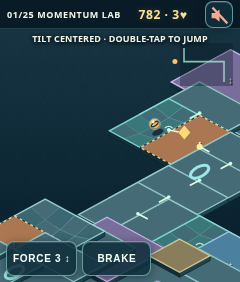
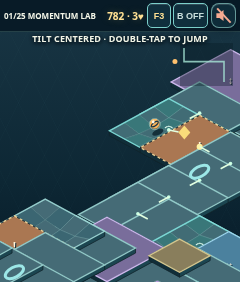
Move force and toggle brake into scoreboard with touch fallback

Changed region(s): [[0.0, 0.0, 1.0, 0.1135], [0.0, 0.8511, 0.6417, 0.9929]]

diff --git a/app.js b/app.js
@@ -2,7 +2,7 @@ import {tiltControl,gesture,isTap,GESTURE} from './controls.js';
 import {TUNE,newGame,step,clamp,opponentPosition,surfaceAt,tileHeight,tilePosition,surfaceHeight} from './physics.js';
 import {toggleAudio,play,roll,audioState} from './audio.js';
 import {createCourse,CATALOG,DIFFICULTIES} from './courses.js';
-const $=id=>document.getElementById(id),canvas=$('game'),ctx=canvas.getContext('2d');let selected=1,difficulty='standard',COURSE=createCourse(selected,difficulty),state=newGame(COURSE),started=false,paused=false,tiltSeen=false,tiltInput={x:0,z:0},tiltCenter=null,force=3,last=performance.now(),camera={x:0,z:7},keys=new Set(),notice='',brakePressed=false,jumpQueued=false,orientationTimer=null,motionStatus='idle',lastTap=null,gestureStart=null,muted=true;
+const $=id=>document.getElementById(id),canvas=$('game'),ctx=canvas.getContext('2d');let selected=1,difficulty='standard',COURSE=createCourse(selected,difficulty),state=newGame(COURSE),started=false,paused=false,tiltSeen=false,tiltInput={x:0,z:0},tiltCenter=null,force=3,last=performance.now(),camera={x:0,z:7},notice='',brakeEnabled=false,jumpQueued=false,orientationTimer=null,motionStatus='idle',lastTap=null,gestureStart=null,muted=true;
 const say=t=>{notice=t;$('message').textContent=t};
 const scale=8.4;
 function project(x,z,h=0){const X=x-camera.x,Z=z-camera.z;return {x:120+(X-Z)*scale*.70,y:147+(X+Z)*scale*.38-h*scale*.9}}
@@ -49,7 +49,7 @@ function drawMap(){
  const a=point(state);ctx.fillStyle='#ffc16e';ctx.beginPath();ctx.arc(a.x,a.y,2.5,0,7);ctx.fill();
 }
 
-function sync(){ $('time').textContent=state.remaining.toFixed(0)+' · '+Math.max(0,state.lives)+'♥';$('label').textContent=`${String(selected).padStart(2,'0')}/25 ${COURSE.name.toUpperCase()}`;$('time').style.color=state.remaining<15?'#ff7c77':'#ffe093';$('speed').textContent=`FORCE ${force} ↕`;
+function sync(){ $('time').textContent=state.remaining.toFixed(0)+' · '+Math.max(0,state.lives)+'♥';$('label').textContent=`${String(selected).padStart(2,'0')}/25 ${COURSE.name.toUpperCase()}`;$('time').style.color=state.remaining<15?'#ff7c77':'#ffe093';$('speed').textContent=`F${force}`;$('speed').setAttribute('aria-label',`Force ${force} of 5, tap or swipe to adjust`);$('brake-state').textContent=brakeEnabled?'B ON':'B OFF';$('brake-state').setAttribute('aria-pressed',String(brakeEnabled));$('brake-state').setAttribute('aria-label',`Brake ${brakeEnabled?'on':'off'}, tap to toggle`);
   if(state.status==='finished'||state.status==='timeout'||state.status==='out'){$('result').hidden=false;$('next').hidden=state.status!=='finished'||selected===25;$('result-title').textContent=state.status==='finished'?'COURSE COMPLETE':state.status==='out'?'OUT OF LIVES':'TIME UP';$('result-detail').textContent=state.status==='finished'?`${COURSE.name} · ${state.remaining.toFixed(0)}s left · ${state.lives} lives · ${state.falls} falls.`:`${COURSE.name} · ${state.falls} falls · Retry this course.`}
   else if(state.fallTime>0)say(`FALL · ${Math.max(0,state.lives)} LIVES · RESPAWN −4s`);else if(state.checkpoint&&notice==='')say('CHECKPOINT');}
 async function prepareTilt(){tiltSeen=false;tiltCenter=null;tiltInput={x:0,z:0};motionStatus='waiting';say('HOLD YOUR PLAYING POSTURE · CALIBRATING TILT');clearTimeout(orientationTimer);
@@ -57,27 +57,28 @@ async function prepareTilt(){tiltSeen=false;tiltCenter=null;tiltInput={x:0,z:0};
     orientationTimer=setTimeout(()=>{if(!tiltSeen){motionStatus='unavailable';say('NO TILT DATA · CHECK MOTION ACCESS, THEN REPLAY')}},2200);
   }catch(e){motionStatus='unavailable';say(`TILT UNAVAILABLE (${e.message}) · CHECK MOTION ACCESS, THEN REPLAY`)}
 }
-function start(){COURSE=createCourse(selected,difficulty);state=newGame(COURSE);camera={x:0,z:7};started=true;paused=false;jumpQueued=false;lastTap=null;$('overlay').hidden=true;$('help').hidden=true;$('result').hidden=true;prepareTilt();sync()}
+function start(){COURSE=createCourse(selected,difficulty);state=newGame(COURSE);camera={x:0,z:7};started=true;paused=false;brakeEnabled=false;jumpQueued=false;lastTap=null;$('overlay').hidden=true;$('help').hidden=true;$('result').hidden=true;prepareTilt();sync()}
 $('start').onclick=start;$('restart').onclick=start;$('replay').onclick=start;$('next').onclick=()=>{selected=Math.min(25,selected+1);$('course').value=String(selected);start()};$('course').onchange=e=>{selected=Number(e.target.value);COURSE=createCourse(selected,difficulty);state=newGame(COURSE);sync()};$('difficulty').onchange=e=>{difficulty=e.target.value;COURSE=createCourse(selected,difficulty);state=newGame(COURSE);sync()};
 function openDrawer(){if(!started||!$('result').hidden)return;paused=true;lastTap=null;$('help').hidden=false}
 function closeDrawer(){paused=false;$('help').hidden=true;lastTap=null}
 $('resume').onclick=closeDrawer;
 const adjust=d=>{force=clamp(force+d,1,5);sync();say(`FORCE ${force} · ${force<3?'PRECISION':'MOMENTUM'}`)};
-addEventListener('wheel',e=>{if(!started||paused||!$('result').hidden)return;e.preventDefault();adjust(e.deltaY>0?-1:1)},{passive:false});let touchY=null;$('speed').addEventListener('pointerdown',e=>{touchY=e.clientY;$('speed').setPointerCapture(e.pointerId)});$('speed').addEventListener('pointerup',e=>{if(touchY!==null)adjust(touchY-e.clientY>8?1:touchY-e.clientY< -8?-1:1);touchY=null});
+function toggleBrake(){if(!started||paused||state.status!=='playing')return;brakeEnabled=!brakeEnabled;sync();say(brakeEnabled?'BRAKE ON':'BRAKE OFF')}
+$('brake-state').addEventListener('click',toggleBrake);
+addEventListener('wheel',e=>{if(!started||paused||!$('result').hidden)return;e.preventDefault();adjust(e.deltaY>0?-1:e.deltaY<0?1:0)},{passive:false});let touchY=null;$('speed').addEventListener('pointerdown',e=>{touchY=e.clientY;$('speed').setPointerCapture(e.pointerId)});$('speed').addEventListener('pointerup',e=>{if(touchY!==null)adjust(touchY-e.clientY>8?1:touchY-e.clientY< -8?-1:1);touchY=null});
 addEventListener('deviceorientation',e=>{if(!started||!Number.isFinite(e.gamma)||!Number.isFinite(e.beta))return;tiltSeen=true;motionStatus='ready';clearTimeout(orientationTimer);if(!tiltCenter){tiltCenter={gamma:e.gamma,beta:e.beta};say('TILT CENTERED · DOUBLE-TAP TO JUMP')}tiltInput=tiltControl(e.gamma,e.beta,tiltCenter)});
 $('shell').addEventListener('pointerdown',e=>{if(e.pointerType==='mouse'&&e.button!==0)return;gestureStart={x:e.clientX,y:e.clientY,id:e.pointerId,target:e.target,time:performance.now()}});
 $('shell').addEventListener('pointerup',e=>{if(!gestureStart||gestureStart.id!==e.pointerId)return;const startPoint=gestureStart;gestureStart=null;const end={x:e.clientX,y:e.clientY},action=gesture(startPoint,end,!$('help').hidden);if(action==='open'){openDrawer();return}if(action==='close'){closeDrawer();return}
   if(!started||paused||state.status!=='playing'||!isTap(startPoint,end)||startPoint.x>=240-GESTURE.edge||startPoint.target!==canvas){lastTap=null;return}
   const now=performance.now();if(lastTap&&now-lastTap.time<=GESTURE.doubleMs&&Math.hypot(lastTap.x-end.x,lastTap.y-end.y)<28){jumpQueued=true;lastTap=null;say('JUMP')}else lastTap={...end,time:now};
 });$('shell').addEventListener('pointercancel',()=>{gestureStart=null;lastTap=null});
-addEventListener('keydown',e=>{if(['ArrowUp','ArrowDown','ArrowLeft','ArrowRight',' '].includes(e.key))e.preventDefault();keys.add(e.key.toLowerCase())});addEventListener('keyup',e=>keys.delete(e.key.toLowerCase()));
+addEventListener('keydown',e=>{if(['ArrowUp','ArrowDown','ArrowLeft','ArrowRight',' '].includes(e.key))e.preventDefault();if(e.repeat)return;if(e.key.toLowerCase()==='b')toggleBrake()});
 function frame(now){const dt=Math.min((now-last)/1000,1/30);last=now;if(started&&!paused&&state.status==='playing'&&motionStatus==='ready'){
-  const brake=keys.has(' ')||keys.has('b')||brakePressed;
+  const brake=brakeEnabled;
   state=step(state,{x:tiltInput.x*force/3,z:tiltInput.z*force/3,brake,jump:jumpQueued},dt,COURSE);for(const event of state.events){play(({fall:'collapse',impact:'impact-metal',respawn:'platform',shield:'impact-metal',fail:'bomb'})[event]||event,event==='impact'?.22:.48)}const material=surfaceAt(state.x,state.z,COURSE,state.elapsed,state.collapsed)?.kind;roll(Math.hypot(state.vx,state.vz),material,now/1000);jumpQueued=false;camera.x+=(state.x-camera.x)*Math.min(1,dt*3);camera.z+=(state.z+7-camera.z)*Math.min(1,dt*3);sync()
 }draw();requestAnimationFrame(frame)}
-const brakeButton=$('brake');brakeButton.addEventListener('pointerdown',e=>{e.preventDefault();brakeButton.setPointerCapture(e.pointerId);brakePressed=true});for(const ev of ['pointerup','pointercancel','lostpointercapture'])brakeButton.addEventListener(ev,()=>brakePressed=false);
 $('audio').onclick=async()=>{await toggleAudio();muted=audioState().muted;const b=$('audio');b.setAttribute('aria-pressed',String(!muted));b.setAttribute('aria-label',muted?'Unmute audio':'Mute audio');b.title=muted?'Unmute audio':'Mute audio'};
 requestAnimationFrame(frame);
-window.__lab=()=>({course:selected,difficulty,configuration:{sections:COURSE.sections,branches:COURSE.branches,hazards:COURSE.hazards.length,features:COURSE.features.length,opponents:COURSE.opponents.length},state:{...state},tiltSeen,tiltCenter,tiltInput:{...tiltInput},motionStatus,force,started,paused,jumpQueued,muted});
+window.__lab=()=>({course:selected,difficulty,configuration:{sections:COURSE.sections,branches:COURSE.branches,hazards:COURSE.hazards.length,features:COURSE.features.length,opponents:COURSE.opponents.length},state:{...state},tiltSeen,tiltCenter,tiltInput:{...tiltInput},motionStatus,force,brakeEnabled,started,paused,jumpQueued,muted});
 // Local-only deterministic finish-zone browser fixture; never available on published Pages.
 if(location.hostname==='127.0.0.1'||location.hostname==='localhost')window.__labSetState=patch=>{state={...state,...patch};sync()};

diff --git a/index.html b/index.html
@@ -1,1 +1,1 @@
-<!doctype html><html lang="en"><head><meta charset="utf-8"><meta name="viewport" content="width=device-width,initial-scale=1,maximum-scale=1,viewport-fit=cover"><meta name="theme-color" content="#0c2531"><title>Marble Madness 3D · Momentum Lab</title><link rel="stylesheet" href="styles.css?v=8"></head><body><main id="shell"><canvas id="game" width="240" height="282" aria-label="Momentum Lab marble course"></canvas><div id="hud"><span id="label">MOMENTUM LAB</span><span id="time">90.0</span><button id="audio" aria-label="Unmute audio" aria-pressed="false" title="Unmute audio"><svg viewBox="0 0 24 24" aria-hidden="true"><path d="M3 9v6h4l5 4V5L7 9H3z" fill="currentColor"/><path class="waves" d="M15 8q4 4 0 8m2-11q7 7 0 14" fill="none" stroke="currentColor" stroke-width="2"/><path class="slash" d="M4 3 21 21" fill="none" stroke="currentColor" stroke-width="2.5"/></svg></button></div><div id="message" role="status"></div><div id="controls"><button id="speed" aria-label="Force setting, tap or swipe">FORCE 3 ↕</button><button id="brake" aria-label="Brake, hold to stop">BRAKE</button></div><section id="overlay"><div class="emblem">◉</div><h1>MARBLE<br>MADNESS <b>3D</b></h1><p>25 COURSES · PURE MOMENTUM</p><div class="pick"><label>COURSE<select id="course"><option value="1">01</option><option value="2">02</option><option value="3">03</option><option value="4">04</option><option value="5">05</option><option value="6">06</option><option value="7">07</option><option value="8">08</option><option value="9">09</option><option value="10">10</option><option value="11">11</option><option value="12">12</option><option value="13">13</option><option value="14">14</option><option value="15">15</option><option value="16">16</option><option value="17">17</option><option value="18">18</option><option value="19">19</option><option value="20">20</option><option value="21">21</option><option value="22">22</option><option value="23">23</option><option value="24">24</option><option value="25">25</option></select></label><label>LEVEL<select id="difficulty"><option value="beginner">BEGINNER</option><option value="standard" selected>STANDARD</option><option value="pro">PRO</option></select></label></div><button id="start">ROLL THE COURSE</button><small>Tilt to steer · double-tap to jump<br>Hold BRAKE · wheel or FORCE to adjust<br>Swipe in from right edge for menu</small></section><section id="help" hidden><h2>PAUSED</h2><p>Tilt steers relative to the posture held at start. Double-tap the course to jump; hold BRAKE to stop. Wheel adjusts FORCE; tap/swipe FORCE if wheel is unavailable. Follow the small translucent route trace and floor arrows: only painted platforms support the marble; dark space is a gap. Blue ↔ platforms move, purple ↕ elevators rise, and orange ! platforms warn red before collapsing. Raised elevator edges may need a jump or a lower phase. Reach the luminous goal. Falls cost a life and return to the latest checkpoint with a 4-second penalty. Bombs cost a life; red posts and purple rivals bounce you. Collect diamonds for time, shield, or boost. Swipe right to close this drawer.</p><button id="resume">RESUME</button><button id="restart">RESTART</button></section><section id="result" hidden><h2 id="result-title"></h2><p id="result-detail"></p><button id="replay">REPLAY COURSE</button><button id="next" hidden>NEXT COURSE →</button></section></main><script type="module" src="app.js?v=8"></script></body></html>
+<!doctype html><html lang="en"><head><meta charset="utf-8"><meta name="viewport" content="width=device-width,initial-scale=1,maximum-scale=1,viewport-fit=cover"><meta name="theme-color" content="#0c2531"><title>Marble Madness 3D · Momentum Lab</title><link rel="stylesheet" href="styles.css?v=9"></head><body><main id="shell"><canvas id="game" width="240" height="282" aria-label="Momentum Lab marble course"></canvas><div id="hud"><span id="score"><span id="label">MOMENTUM LAB</span><span id="time">90.0</span></span><span id="instruments"><button id="speed" aria-label="Force 3 of 5, tap or swipe to adjust" title="Wheel or tap/swipe to adjust force">F3</button><button id="brake-state" aria-label="Brake off, tap to toggle" aria-pressed="false" title="Tap to toggle brake">B OFF</button></span><button id="audio" aria-label="Unmute audio" aria-pressed="false" title="Unmute audio"><svg viewBox="0 0 24 24" aria-hidden="true"><path d="M3 9v6h4l5 4V5L7 9H3z" fill="currentColor"/><path class="waves" d="M15 8q4 4 0 8m2-11q7 7 0 14" fill="none" stroke="currentColor" stroke-width="2"/><path class="slash" d="M4 3 21 21" fill="none" stroke="currentColor" stroke-width="2.5"/></svg></button></div><div id="message" role="status"></div><section id="overlay"><div class="emblem">◉</div><h1>MARBLE<br>MADNESS <b>3D</b></h1><p>25 COURSES · PURE MOMENTUM</p><div class="pick"><label>COURSE<select id="course"><option value="1">01</option><option value="2">02</option><option value="3">03</option><option value="4">04</option><option value="5">05</option><option value="6">06</option><option value="7">07</option><option value="8">08</option><option value="9">09</option><option value="10">10</option><option value="11">11</option><option value="12">12</option><option value="13">13</option><option value="14">14</option><option value="15">15</option><option value="16">16</option><option value="17">17</option><option value="18">18</option><option value="19">19</option><option value="20">20</option><option value="21">21</option><option value="22">22</option><option value="23">23</option><option value="24">24</option><option value="25">25</option></select></label><label>LEVEL<select id="difficulty"><option value="beginner">BEGINNER</option><option value="standard" selected>STANDARD</option><option value="pro">PRO</option></select></label></div><button id="start">ROLL THE COURSE</button><small>Tilt to steer · double-tap to jump<br>Tap B to toggle brake · wheel or F for force<br>Swipe in from right edge for menu</small></section><section id="help" hidden><h2>PAUSED</h2><p>Tilt steers relative to the posture held at start. Double-tap the course to jump; tap B in the scoreboard to toggle the brake on/off. Wheel adjusts FORCE; tap/swipe F in the scoreboard if wheel events are unavailable. The R1 side button is reserved for system push-to-talk unless the embedded runtime explicitly forwards it. Follow the small translucent route trace and floor arrows: only painted platforms support the marble; dark space is a gap. Blue ↔ platforms move, purple ↕ elevators rise, and orange ! platforms warn red before collapsing. Raised elevator edges may need a jump or a lower phase. Reach the luminous goal. Falls cost a life and return to the latest checkpoint with a 4-second penalty. Bombs cost a life; red posts and purple rivals bounce you. Collect diamonds for time, shield, or boost. Swipe right to close this drawer.</p><button id="resume">RESUME</button><button id="restart">RESTART</button></section><section id="result" hidden><h2 id="result-title"></h2><p id="result-detail"></p><button id="replay">REPLAY COURSE</button><button id="next" hidden>NEXT COURSE →</button></section></main><script type="module" src="app.js?v=9"></script></body></html>

diff --git a/styles.css b/styles.css
@@ -19,3 +19,16 @@
 #start,#resume,#restart,#replay{background:#a2ebd6;box-shadow:inset 0 1px #fff9,0 4px 12px #0005;border-radius:8px;letter-spacing:.06em}
 #help{border-left:2px solid #a2ebd6;box-shadow:-10px 0 22px #000a}
 @media(prefers-reduced-motion:reduce){*{scroll-behavior:auto!important;animation:none!important;transition:none!important}}
+
+/* Scoreboard instruments: compact, explicit state, no bottom brake control. */
+#hud{padding:0 4px;gap:3px;letter-spacing:0;height:32px}
+#score{display:flex;min-width:0;flex:1;align-items:center;gap:3px}
+#hud #label{min-width:0;max-width:none;flex:1;font-size:8px}
+#hud #time{font-size:10px;flex:none}
+#instruments{display:flex;align-items:center;gap:2px;flex:none}
+#instruments button{min-height:25px;height:25px;padding:0 3px;font-size:9px;white-space:nowrap;border-radius:5px;background:#102f3d;box-shadow:inset 0 1px #ffffff25}
+#speed{min-width:24px;color:#ffe093}
+#brake-state{min-width:35px;color:#c8dddb}
+#brake-state[aria-pressed=true]{color:#071a25;background:#ffca82;border-color:#ffe0aa}
+#hud #audio{flex:none;width:25px;height:25px;min-height:25px;padding:2px}
+#hud #audio svg{width:19px;height:19px}

diff --git a/README.md b/README.md
@@ -14,7 +14,7 @@ The bank, bowl and ramp are **height-field support**, not markings on a flat flo
 
 ## Play and mechanics
 
-Choose a course and difficulty. Hold the device in a neutral playing posture and start; **tilt is required** to steer, and the clock waits for orientation data. Double-tap the playfield to jump. Hold **BRAKE** to decelerate. Adjust **FORCE 1–5** with the wheel, or tap/swipe FORCE where wheel events are unavailable. Swipe left from the right edge to open the pause drawer and swipe right to close. The speaker icon toggles audio, initially muted. Follow the small translucent route trace and illuminated floor arrows; a dark gap has no support, while adjacent plaza surfaces are optional detours. Blue ↔ means moving, purple ↕ means a height-changing elevator, and orange ! warns of collapse.
+Choose a course and difficulty. Hold the device in a neutral playing posture and start; **tilt is required** to steer, and the clock waits for orientation data. Double-tap the playfield to jump. Tap **B OFF / B ON** in the top scoreboard to toggle the brake; its highlighted state persists until tapped again, and resets at the start of a course. Adjust **FORCE 1–5** with wheel events, or tap/swipe **F1–F5** in the scoreboard when wheel events are unavailable. There is no standalone on-screen BRAKE button. Swipe left from the right edge to open the pause drawer and swipe right to close. The speaker icon toggles audio, initially muted. Follow the small translucent route trace and illuminated floor arrows; a dark gap has no support, while adjacent plaza surfaces are optional detours. Blue ↔ means moving, purple ↕ means a height-changing elevator, and orange ! warns of collapse.
 
 Blue moving platforms oscillate sideways and carry the marble while supported. Purple elevators raise/lower the support surface 3 world units and prevent entry onto a platform more than 1.15 units above the player's current support unless jumping. Orange fragile platforms warn in red after 2.2 seconds of residence and fall away after 4.5 seconds; they reset on respawn. A missing support surface, bomb, or collapsed platform consumes a life and respawns at the latest safe checkpoint with a four-second penalty. Posts and moving rivals deflect the marble. Diamonds give time, shield, or forward boost. The course ends at the goal platform.
 
@@ -30,11 +30,21 @@ The bundled mono 16 kHz MP3 samples are adapted from the **Kenney Impact Sounds*
 
 ## Verification and known limitations
 
-Run `node controls-test.mjs`, `node campaign-test.mjs`, `node route-test.mjs`, and `node audio-test.mjs`. Serve the directory using `python3 -m http.server 8765` and run `node browser-test.mjs` for four representative 240×282 screenshots under `screenshots/`. Run `node physics-test.mjs` and `node route-test.mjs` for surface dynamics and deterministic steering. Campaign tests check all 75 course/difficulty combinations for rule counts, connectivity, occupancy at three animation times, turns, dynamic behavior, collapse/respawn, bomb, feature and finish. There are 25 distinct route signatures. The previous 32/75 steering result improved to **74/75** after relocating bombs off the steering corridor, showing that the majority of failures were hazard-placement artifacts rather than route disconnections. The last failure involved a rival stalling the simplistic controller on a collapsing platform and then a checkpoint loop; relocating rivals off collapsing supports yielded **75/75** deterministic probe finishes. This does not establish human beatability or a robust route guarantee under varied steering and timing. The geometry tests establish adjacent platforms, not human-scale navigability. The 240×282 browser fixtures render courses 1, 8, 17 and 25; the sampled audio harness decodes all 13 assets, calls every event, and confirms mute suppression in a mocked AudioContext—not actual speaker output. Physical R1 tilt-axis behavior, wheel handling, sound playback, performance, and course balance require Rodney's on-device acceptance testing after installation. This release is not a Gallery submission.
+Run `node controls-test.mjs`, `node campaign-test.mjs`, `node route-test.mjs`, and `node audio-test.mjs`. Serve the directory using `python3 -m http.server 8765` and run `node browser-test.mjs` for four representative 240×282 screenshots under `screenshots/`. Run `node physics-test.mjs` and `node route-test.mjs` for surface dynamics and deterministic steering. Campaign tests check all 75 course/difficulty combinations for rule counts, connectivity, occupancy at three animation times, turns, dynamic behavior, collapse/respawn, bomb, feature and finish. There are 25 distinct route signatures. The previous 32/75 steering result improved to **74/75** after relocating bombs off the steering corridor, showing that the majority of failures were hazard-placement artifacts rather than route disconnections. The last failure involved a rival stalling the simplistic controller on a collapsing platform and then a checkpoint loop; relocating rivals off collapsing supports yielded **75/75** deterministic probe finishes. This does not establish human beatability or a robust route guarantee under varied steering and timing. The geometry tests establish adjacent platforms, not human-scale navigability. The 240×282 browser fixtures render courses 1, 8, 17 and 25; the sampled audio harness decodes all 13 assets, calls every event, and confirms mute suppression in a mocked AudioContext—not actual speaker output. Physical R1 tilt-axis behavior, side-button delivery, wheel handling, sound playback, performance, and course balance require Rodney's on-device acceptance testing after installation. This release is not a Gallery submission.
+
+## Install on R1
+
+Scan this release-specific Creation QR with the R1 to install the published game, or open the [release-specific Creation URL](https://geekthegreybeard.github.io/r1-marble-madness-3d/?release=20260927-hud-brake). This QR is refreshed with each published release and decoded against the Creation card before delivery.
+
+![Marble Madness 3D R1 installation QR](marble-madness-3d-r1-install-qr.png)
+
+## Hardware input boundary
+
+The embedded R1 Creation runtime's delivery of the physical side-button and wheel to page JavaScript is not documented in the public [r1 Creations page](https://www.rabbit.tech/creations). A browser can consume standard `wheel` events, but browser simulation cannot prove the R1 forwards its wheel; the scoreboard F control is a touch fallback. Do **not** remap the system push-to-talk side-button to an unverified `keydown` event: B is a keyboard simulation shortcut, not proof of hardware support. Until the runtime exposes and documents a side-button event that does not conflict with system push-to-talk, B ON/OFF in the scoreboard is the reliable touch fallback. Physical R1 button/wheel validation remains pending.
 
 ## R1 acceptance check for Rodney
 
 1. Install from the release QR and open course 1 on Beginner; confirm the course is visible behind the small translucent trace, floor dots/arrows stay on real surfaces, dark gaps remain visually distinct, and ↔/↕/! cues match platform behavior.
-2. Tilt all four ways, change FORCE with the wheel (or touch fallback), hold BRAKE, double-tap to jump, and swipe the drawer open/closed; confirm there is no D-pad or tilt toggle.
+2. Tilt all four ways, change FORCE with the wheel (or touch fallback), toggle B ON/OFF in the scoreboard, double-tap to jump, and swipe the drawer open/closed; confirm there is no D-pad or tilt toggle.
 3. Cross a moving support, wait for an elevator and jump if raised, then linger on a fragile support for its red warning/collapse; test checkpoint respawn. Try course 25 Standard for its turn/rival timing.
 4. Unmute and listen for rolling, jump, impact, elevator, fragile warning/collapse, pickup and finish; mute and ensure effects cease. Report any clipping, inaudible events, occluded hazards, or routes you cannot traverse, with course/level and location.
